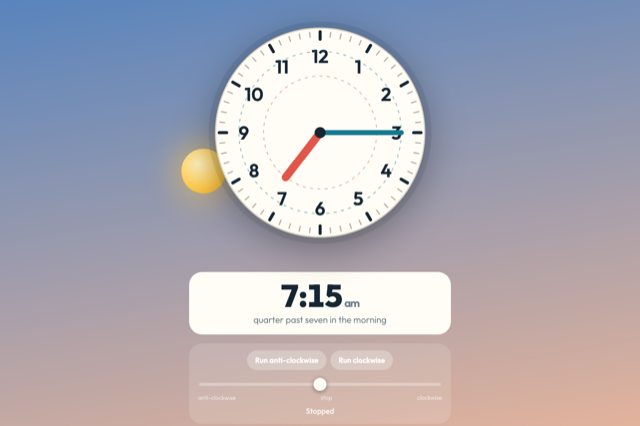
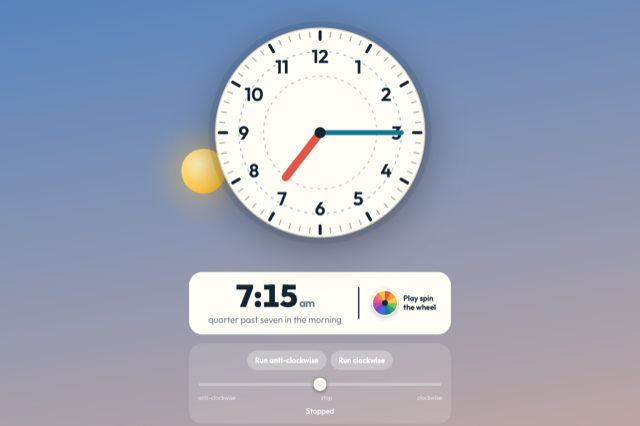
Add spin-the-wheel time challenge to the Sky Clock
A wheel of twelve times at the current challenge level; the landed
time becomes the 'set the hands to' target. Also keep the sky gradient
covering the full page height.

Claude-Session: https://claude.ai/code/session_01XNBCKRC8iQ4mU9ZpjSW1kM

Changed region(s): [[0.0, 0.5493, 1.0, 1.0]]

diff --git a/sky-clock/clock.html b/sky-clock/clock.html
@@ -23,7 +23,8 @@
 
   *{box-sizing:border-box}
 
-  html,body{height:100%}
+  html{height:100%;background:#0D1B2A}   /* keeps the sky gradient on body, sized to the whole page */
+  body{min-height:100%}
 
   body{
     margin:0;
@@ -125,7 +126,62 @@
     border-radius:var(--r-card);
     padding:16px 20px 18px;
     text-align:center;
+    display:flex;align-items:center;gap:14px;
   }
+  .readout .time{flex:1;min-width:0}
+  .readout .divider{width:3px;height:64px;background:var(--ink);border-radius:2px;opacity:.85;flex:none}
+  .spinbtn{
+    flex:none;display:flex;align-items:center;gap:10px;
+    background:transparent;color:var(--ink);
+    padding:8px 10px;border-radius:18px;backdrop-filter:none;
+    font-size:15px;line-height:1.15;text-align:left;
+  }
+  .spinbtn:hover{background:rgba(21,37,50,.07)}
+  .spinbtn .icon{
+    width:54px;height:54px;border-radius:50%;flex:none;
+    background:conic-gradient(#E2564A 0 30deg,#F2A02C 0 60deg,#FFC94A 0 90deg,#7DC15C 0 120deg,#2E9E6B 0 150deg,#15788F 0 180deg,#3B6FD8 0 210deg,#6A4FC7 0 240deg,#B24AA8 0 270deg,#E05B8A 0 300deg,#F07E5B 0 330deg,#F5C24D 0 360deg);
+    box-shadow:0 2px 8px rgba(0,0,0,.25), inset 0 0 0 3px var(--face);
+    position:relative;
+  }
+  .spinbtn .icon::after{
+    content:"";position:absolute;left:50%;top:50%;width:12px;height:12px;
+    border-radius:50%;background:var(--ink);transform:translate(-50%,-50%);
+  }
+  @media (max-width:430px){
+    .readout{flex-direction:column;gap:10px}
+    .readout .divider{width:64px;height:3px}
+  }
+
+  /* ---------- spin the wheel ---------- */
+  .overlay.hidden{display:none}
+  .overlay{
+    position:fixed;inset:0;z-index:20;
+    background:rgba(13,27,42,.72);backdrop-filter:blur(4px);
+    display:grid;place-items:center;padding:18px;
+  }
+  .wheelbox{
+    width:min(420px,100%);
+    background:var(--face);border-radius:var(--r-card);
+    padding:18px 20px 20px;
+    display:flex;flex-direction:column;gap:12px;align-items:center;text-align:center;
+  }
+  .wheelbox h2{margin:0;font-size:22px;font-weight:800}
+  .wheelbox p{margin:0;font-size:16px;font-weight:300;color:var(--ink-soft)}
+  .wheelstage{position:relative;width:min(320px,80vw);aspect-ratio:1}
+  .wheelstage svg{width:100%;height:100%;display:block;filter:drop-shadow(0 10px 22px rgba(0,0,0,.25))}
+  .pointer{
+    position:absolute;left:50%;top:-6px;transform:translateX(-50%);
+    width:0;height:0;border-left:14px solid transparent;border-right:14px solid transparent;
+    border-top:30px solid var(--ink);filter:drop-shadow(0 2px 3px rgba(0,0,0,.3));z-index:2;
+  }
+  .wedge-label{font-size:13px;font-weight:600;fill:#fff;text-anchor:end;dominant-baseline:central;
+    paint-order:stroke;stroke:rgba(0,0,0,.28);stroke-width:2px}
+  .wedge-label.flip{text-anchor:start}
+  .wheelresult{font-size:30px;font-weight:800;font-variant-numeric:tabular-nums;min-height:1.2em}
+  .wheelbox .row{display:flex;gap:8px;flex-wrap:wrap;justify-content:center}
+  .wheelbox button{background:var(--ink);color:var(--face);backdrop-filter:none}
+  .wheelbox button.ghost{background:transparent;color:var(--ink);box-shadow:inset 0 0 0 2px rgba(21,37,50,.18)}
+  .wheelbox button:disabled{opacity:.45;cursor:default}
   .digits{
     font-size:clamp(44px,13vw,62px);
     font-weight:800;
@@ -255,8 +311,15 @@
   </div>
 
   <div class="readout">
-    <div class="digits" id="digits" aria-live="polite">7:15<span class="meridiem">am</span></div>
-    <div class="words" id="words">quarter past seven in the morning</div>
+    <div class="time">
+      <div class="digits" id="digits" aria-live="polite">7:15<span class="meridiem">am</span></div>
+      <div class="words" id="words">quarter past seven in the morning</div>
+    </div>
+    <div class="divider" aria-hidden="true"></div>
+    <button class="spinbtn" id="btnWheel" type="button">
+      <span class="icon" aria-hidden="true"></span>
+      <span>Play spin<br>the wheel</span>
+    </button>
   </div>
 
   <div class="transport">
@@ -292,6 +355,23 @@
     <div class="score" id="score">0 right</div>
   </div>
 
+</div>
+
+<div class="overlay hidden" id="wheelOverlay" role="dialog" aria-modal="true" aria-labelledby="wheelTitle">
+  <div class="wheelbox">
+    <h2 id="wheelTitle">Spin for a time</h2>
+    <p id="wheelHint">Spin the wheel, then set the hands to the time it lands on.</p>
+    <div class="wheelstage">
+      <div class="pointer" aria-hidden="true"></div>
+      <svg id="wheel" viewBox="0 0 300 300" aria-hidden="true"></svg>
+    </div>
+    <div class="wheelresult" id="wheelResult" aria-live="polite"></div>
+    <div class="row">
+      <button id="btnSpin" type="button">Spin</button>
+      <button id="btnWheelGo" type="button" class="hidden">Set the hands</button>
+      <button id="btnWheelClose" type="button" class="ghost">Close</button>
+    </div>
+  </div>
 </div>
 
 <script>
@@ -657,6 +737,129 @@
       v.className = 'verdict no';
       chime(false);
     }
+  });
+
+  /* ---------- spin the wheel ---------- */
+  const WEDGES = 12;
+  const WEDGE_COLOURS = ['#E2564A','#F2A02C','#FFC94A','#7DC15C','#2E9E6B','#15788F',
+                         '#3B6FD8','#6A4FC7','#B24AA8','#E05B8A','#F07E5B','#F5C24D'];
+  const overlay = $('wheelOverlay'), wheelSvg = $('wheel');
+  let wheelTimes = [], wheelRot = 0, spinning = false, landed = null;
+
+  function targetLabel(t) {
+    return fmt(t) + (use24 ? '' : (t < 720 ? ' am' : ' pm'));
+  }
+
+  function buildWheel() {
+    const step = LEVELS[level].step;
+    const slots = Math.floor(1440 / step);
+    const picked = new Set();
+    while (picked.size < WEDGES) picked.add(Math.floor(Math.random() * slots) * step);
+    wheelTimes = [...picked];
+
+    wheelSvg.innerHTML = '';
+    const R = 146, cx = 150, cy = 150, per = 360 / WEDGES;
+    const P = (deg, r) => {
+      const a = (deg - 90) * Math.PI / 180;
+      return `${cx + r * Math.cos(a)} ${cy + r * Math.sin(a)}`;
+    };
+    wheelTimes.forEach((t, i) => {
+      const a0 = i * per, a1 = a0 + per;
+      const path = el('path', {
+        d: `M${cx} ${cy} L${P(a0, R)} A${R} ${R} 0 0 1 ${P(a1, R)} Z`,
+        fill: WEDGE_COLOURS[i % WEDGE_COLOURS.length], stroke: '#fff', 'stroke-width': 2
+      });
+      wheelSvg.appendChild(path);
+      const mid = a0 + per / 2;
+      const [lx, ly] = P(mid, R - 10).split(' ');
+      const flip = mid > 90 && mid < 270;   // left half reads outward-in, so turn it round
+      const label = el('text', {
+        x: lx, y: ly, class: 'wedge-label' + (flip ? ' flip' : ''),
+        transform: `rotate(${flip ? mid + 90 : mid - 90} ${lx} ${ly})`
+      });
+      label.textContent = targetLabel(t);
+      wheelSvg.appendChild(label);
+    });
+    wheelSvg.appendChild(el('circle', { cx, cy, r: 16, fill: '#152532' }));
+    wheelSvg.appendChild(el('circle', { cx, cy, r: 6, fill: '#FFFDF6' }));
+    wheelSvg.style.transform = `rotate(${wheelRot}deg)`;
+  }
+
+  function openWheel() {
+    landed = null;
+    buildWheel();
+    $('wheelResult').textContent = '';
+    $('btnWheelGo').classList.add('hidden');
+    $('btnSpin').textContent = 'Spin';
+    $('btnSpin').disabled = false;
+    overlay.classList.remove('hidden');
+    $('btnSpin').focus();
+  }
+
+  function closeWheel() {
+    overlay.classList.add('hidden');
+    $('btnWheel').focus();
+  }
+
+  function spinWheel() {
+    if (spinning) return;
+    spinning = true;
+    landed = null;
+    $('wheelResult').textContent = '';
+    $('btnWheelGo').classList.add('hidden');
+    $('btnSpin').disabled = true;
+
+    const per = 360 / WEDGES;
+    const win = Math.floor(Math.random() * WEDGES);
+    const jitter = (Math.random() - 0.5) * per * 0.7;
+    // wheel rotation r puts wedge centre (win*per + per/2) at the top pointer when (r + centre) % 360 == 0
+    const want = ((-(win * per + per / 2 + jitter)) % 360 + 360) % 360;
+    const cur = ((wheelRot % 360) + 360) % 360;
+    const delta = ((want - cur) % 360 + 360) % 360;
+    const turns = 5 + Math.floor(Math.random() * 3);
+    const start = wheelRot, total = turns * 360 + delta;
+    const reduce = window.matchMedia && window.matchMedia('(prefers-reduced-motion: reduce)').matches;
+    const duration = reduce ? 400 : 4200;
+    const t0 = performance.now();
+    let lastWedge = Math.floor(start / per);
+
+    const ease = x => 1 - Math.pow(1 - x, 4);
+    const step = now => {
+      const x = Math.min(1, (now - t0) / duration);
+      wheelRot = start + total * ease(x);
+      wheelSvg.style.transform = `rotate(${wheelRot}deg)`;
+      const w = Math.floor(wheelRot / per);
+      if (w !== lastWedge) { lastWedge = w; if (sound) tick(); }
+      if (x < 1) { requestAnimationFrame(step); return; }
+      spinning = false;
+      landed = wheelTimes[win];
+      $('wheelResult').textContent = targetLabel(landed);
+      $('btnSpin').textContent = 'Spin again';
+      $('btnSpin').disabled = false;
+      $('btnWheelGo').classList.remove('hidden');
+      $('btnWheelGo').focus();
+      if (sound) chime(true);
+    };
+    requestAnimationFrame(step);
+  }
+
+  function useLanded() {
+    if (landed === null) return;
+    target = landed;
+    $('target').textContent = targetLabel(target);
+    $('verdict').textContent = '';
+    $('verdict').className = 'verdict';
+    closeWheel();
+    $('target').scrollIntoView({ behavior: 'smooth', block: 'center' });
+  }
+
+  $('btnWheel').addEventListener('click', openWheel);
+  $('btnSpin').addEventListener('click', spinWheel);
+  $('btnWheelGo').addEventListener('click', useLanded);
+  $('btnWheelClose').addEventListener('click', closeWheel);
+  overlay.addEventListener('click', e => { if (e.target === overlay && !spinning) closeWheel(); });
+  document.addEventListener('keydown', e => {
+    if (e.key === 'Escape' && !overlay.classList.contains('hidden') && !spinning) closeWheel();
   });
 
   /* ---------- go ---------- */
